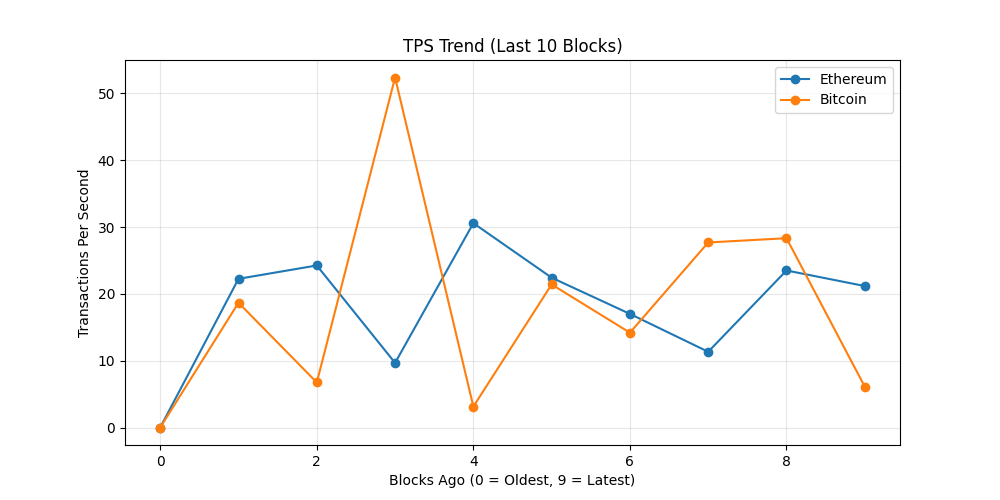
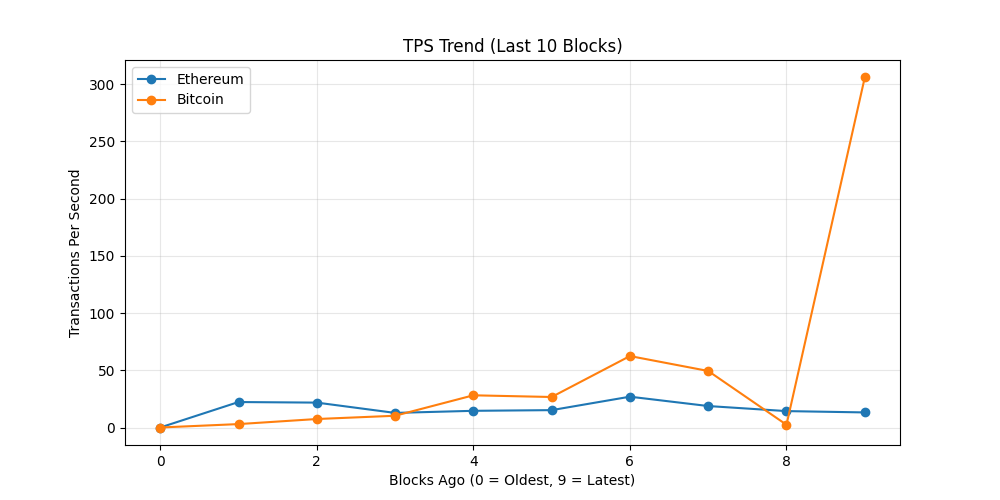
chore: update on-chain dashboard

diff --git a/README.md b/README.md
@@ -19,7 +19,7 @@ The README itself acts as the dashboard and is regenerated automatically on a 6 
 demonstrating a production-style, infrastructure-focused observability workflow rather
 than a traditional UI-driven approach.
 
-_Last updated: 2026-06-15 21:20 UTC_
+_Last updated: 2026-06-16 05:31 UTC_
 
 ## API Usage (GetBlock.io)
 - Calls used: **24**
@@ -27,8 +27,8 @@ _Last updated: 2026-06-15 21:20 UTC_
 ## Network Metrics
 | Chain | Block Height | TX Count | TPS (10 blk avg) | Block Util | Avg Fee |
 |------|-------------|----------|------------------|------------|---------|
-| Ethereum | 25325554 | 254 | 21.17 | 72.19% | 0.1 Gwei |
-| Bitcoin | 953837 | 4655 | 6.12 | 99.8% | N/A |
+| Ethereum | 25328001 | 158 | 13.17 | 14.14% | 0.2 Gwei |
+| Bitcoin | 953894 | 5505 | 305.83 | 99.8% | N/A |
 
 ## Visuals
 ### Transactions Trend
@@ -43,11 +43,9 @@ _Last updated: 2026-06-15 21:20 UTC_
 ## Whale Alerts (latest block)
 - Transaction hashes are truncated for readability.
 - Full hashes are available in `dashboards/metrics.json`
-- Bitcoin | 130.43 BTC | `b49f341a20a7…`
-- Bitcoin | 115.07 BTC | `8dff6bd8d72d…`
-- Bitcoin | 293.59 BTC | `9384fa19a9ef…`
-- Bitcoin | 100.56 BTC | `ddf0aa8fef43…`
-- Bitcoin | 101.49 BTC | `aa5fd2b0595f…`
+- Bitcoin | 329.14 BTC | `feff51115cf2…`
+- Bitcoin | 2956.54 BTC | `32a18e671060…`
+- Bitcoin | 258.0 BTC | `925b15cbf0e7…`
 
 ## Run locally
 
